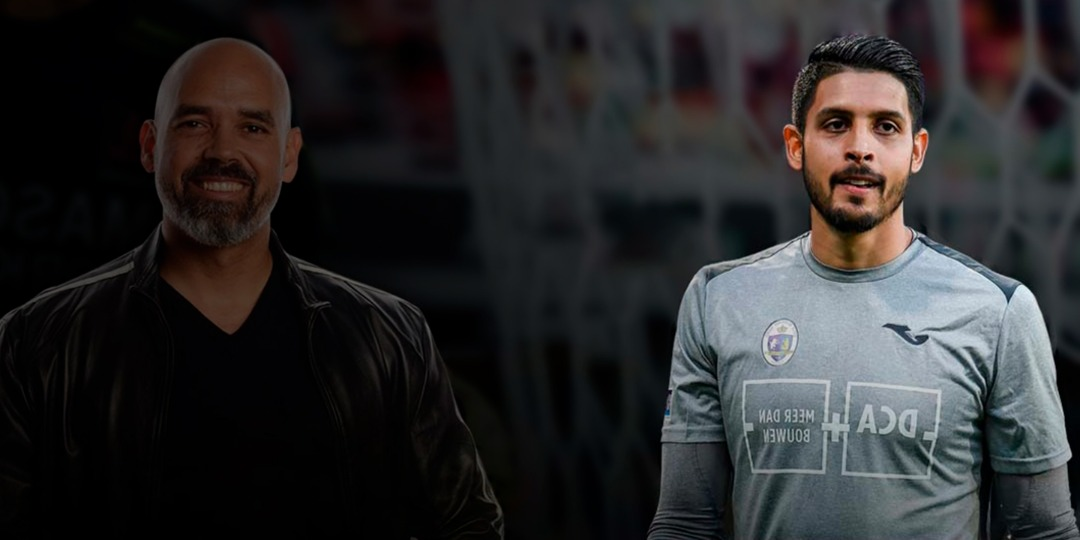
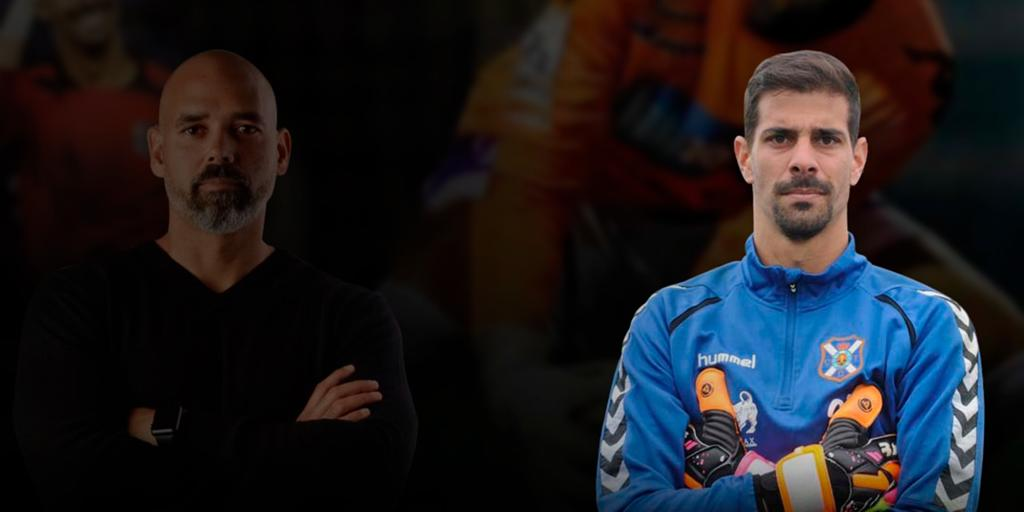
actualizado dani hernandez

diff --git a/index.html b/index.html
@@ -90,30 +90,38 @@
                 <div class="ld-fancy-heading text-uppercase">
                   <h2 class="my-0 lh-1 text-white font-weight-bold split-text-applied ca-initvalues-applied lqd-animations-done" data-ca-options="{&quot;triggerHandler&quot;:&quot;inview&quot;,&quot;animationTarget&quot;:&quot;.split-inner&quot;,&quot;duration&quot;:700,&quot;delay&quot;:100,&quot;easing&quot;:&quot;easeOutQuint&quot;,&quot;direction&quot;:&quot;forward&quot;,&quot;initValues&quot;:{&quot;translateX&quot;:70,&quot;scaleX&quot;:1.5,&quot;opacity&quot;:0},&quot;animations&quot;:{&quot;translateX&quot;:0,&quot;scaleX&quot;:1,&quot;opacity&quot;:1}}"
                     data-custom-animations="true" data-fittext="true" data-fittext-options="{&quot;compressor&quot;:1,&quot;maxFontSize&quot;:&quot;100&quot;,&quot;minFontSize&quot;:&quot;50&quot;}" data-split-options="{&quot;type&quot;:&quot;chars, words&quot;}"
-                    data-split-text="true" style="font-size: 63.6px;"><span class="ld-fh-txt"><div style="position:relative;display:inline-block;" class="lqd-words split-unit lqd-unit-animation-done"><span data-text="Juanpi" class="split-inner" style="transform: translateX(0px) scaleX(1); opacity: 1;"><span class="split-txt"><div style="position:relative;display:inline-block;" class="lqd-chars split-unit lqd-unit-animation-done"><span data-text="J" class="split-inner" style="transform: translateX(0px) scaleX(1); opacity: 1;"><span class="split-txt">R</span></span>
+                    data-split-text="true" style="font-size: 63.6px;"><span class="ld-fh-txt"><div style="position:relative;display:inline-block;" class="lqd-words split-unit lqd-unit-animation-done"><span data-text="Juanpi" class="split-inner" style="transform: translateX(0px) scaleX(1); opacity: 1;"><span class="split-txt"><div style="position:relative;display:inline-block;" class="lqd-chars split-unit lqd-unit-animation-done"><span data-text="J" class="split-inner" style="transform: translateX(0px) scaleX(1); opacity: 1;"><span class="split-txt">D</span></span>
                 </div>
                 <div style="position:relative;display:inline-block;" class="lqd-chars split-unit lqd-unit-animation-done"><span data-text="u" class="split-inner" style="transform: translateX(0px) scaleX(1); opacity: 1;"><span class="split-txt">a</span></span>
                 </div>
-                <div style="position:relative;display:inline-block;" class="lqd-chars split-unit lqd-unit-animation-done"><span data-text="a" class="split-inner" style="transform: translateX(0px) scaleX(1); opacity: 1;"><span class="split-txt">f</span></span>
+                <div style="position:relative;display:inline-block;" class="lqd-chars split-unit lqd-unit-animation-done"><span data-text="a" class="split-inner" style="transform: translateX(0px) scaleX(1); opacity: 1;"><span class="split-txt">n</span></span>
                 </div>
-                <div style="position:relative;display:inline-block;" class="lqd-chars split-unit lqd-unit-animation-done"><span data-text="n" class="split-inner" style="transform: translateX(0px) scaleX(1); opacity: 1;"><span class="split-txt">a</span></span>
+                <div style="position:relative;display:inline-block;" class="lqd-chars split-unit lqd-unit-animation-done"><span data-text="n" class="split-inner" style="transform: translateX(0px) scaleX(1); opacity: 1;"><span class="split-txt">i</span></span>
                 </div>
-                <div style="position:relative;display:inline-block;" class="lqd-chars split-unit lqd-unit-animation-done"><span data-text="p" class="split-inner" style="transform: translateX(0px) scaleX(1); opacity: 1;"><span class="split-txt">e</span></span>
+                <div style="position:relative;display:inline-block;" class="lqd-chars split-unit lqd-unit-animation-done"><span data-text="n" class="split-inner" style="transform: translateX(0px) scaleX(1); opacity: 1;"><span class="split-txt"></span></span>
                 </div>
-                <div style="position:relative;display:inline-block;" class="lqd-chars split-unit lqd-unit-animation-done"><span data-text="i" class="split-inner" style="transform: translateX(0px) scaleX(1); opacity: 1;"><span class="split-txt">l</span></span>
-                </div>
-                <div style="position:relative;display:inline-block;" class="lqd-chars split-unit lqd-unit-animation-done"><span data-text=" " class="split-inner" style="transform: translateX(0px) scaleX(1); opacity: 1;"><span class="split-txt"> </span></span>
+                <div style="position:relative;display:inline-block;" class="lqd-chars split-unit lqd-unit-animation-done"><span data-text="n" class="split-inner" style="transform: translateX(0px) scaleX(1); opacity: 1;"><span class="split-txt"></span></span>
                 </div>
                 </span>
                 </span>
               </div>
-              <div style="position:relative;display:inline-block;" class="lqd-words split-unit lqd-unit-animation-done"><span data-text="Añor" class="split-inner" style="transform: translateX(0px) scaleX(1); opacity: 1;"><span class="split-txt"><div style="position:relative;display:inline-block;" class="lqd-chars split-unit lqd-unit-animation-done"><span data-text="A" class="split-inner" style="transform: translateX(0px) scaleX(1); opacity: 1;"><span class="split-txt">R</span></span>
+              <div style="position:relative;display:inline-block;" class="lqd-words split-unit lqd-unit-animation-done"><span data-text="Añor" class="split-inner" style="transform: translateX(0px) scaleX(1); opacity: 1;"><span class="split-txt"><div style="position:relative;display:inline-block;" class="lqd-chars split-unit lqd-unit-animation-done"><span data-text="A" class="split-inner" style="transform: translateX(0px) scaleX(1); opacity: 1;"><span class="split-txt">H</span></span>
               </div>
-              <div style="position:relative;display:inline-block;" class="lqd-chars split-unit lqd-unit-animation-done"><span data-text="ñ" class="split-inner" style="transform: translateX(0px) scaleX(1); opacity: 1;"><span class="split-txt">o</span></span>
+              <div style="position:relative;display:inline-block;" class="lqd-chars split-unit lqd-unit-animation-done"><span data-text="ñ" class="split-inner" style="transform: translateX(0px) scaleX(1); opacity: 1;"><span class="split-txt">e</span></span>
               </div>
-              <div style="position:relative;display:inline-block;" class="lqd-chars split-unit lqd-unit-animation-done"><span data-text="o" class="split-inner" style="transform: translateX(0px) scaleX(1); opacity: 1;"><span class="split-txt">m</span></span>
+              <div style="position:relative;display:inline-block;" class="lqd-chars split-unit lqd-unit-animation-done"><span data-text="o" class="split-inner" style="transform: translateX(0px) scaleX(1); opacity: 1;"><span class="split-txt">r</span></span>
               </div>
-              <div style="position:relative;display:inline-block;" class="lqd-chars split-unit lqd-unit-animation-done"><span data-text="r" class="split-inner" style="transform: translateX(0px) scaleX(1); opacity: 1;"><span class="split-txt">o</span></span>
+              <div style="position:relative;display:inline-block;" class="lqd-chars split-unit lqd-unit-animation-done"><span data-text="r" class="split-inner" style="transform: translateX(0px) scaleX(1); opacity: 1;"><span class="split-txt">n</span></span>
+              </div>
+              <div style="position:relative;display:inline-block;" class="lqd-chars split-unit lqd-unit-animation-done"><span data-text="r" class="split-inner" style="transform: translateX(0px) scaleX(1); opacity: 1;"><span class="split-txt">á</span></span>
+              </div>
+              <div style="position:relative;display:inline-block;" class="lqd-chars split-unit lqd-unit-animation-done"><span data-text="r" class="split-inner" style="transform: translateX(0px) scaleX(1); opacity: 1;"><span class="split-txt">n</span></span>
+              </div>
+              <div style="position:relative;display:inline-block;" class="lqd-chars split-unit lqd-unit-animation-done"><span data-text="r" class="split-inner" style="transform: translateX(0px) scaleX(1); opacity: 1;"><span class="split-txt">d</span></span>
+              </div>
+              <div style="position:relative;display:inline-block;" class="lqd-chars split-unit lqd-unit-animation-done"><span data-text="r" class="split-inner" style="transform: translateX(0px) scaleX(1); opacity: 1;"><span class="split-txt">e</span></span>
+              </div>
+              <div style="position:relative;display:inline-block;" class="lqd-chars split-unit lqd-unit-animation-done"><span data-text="r" class="split-inner" style="transform: translateX(0px) scaleX(1); opacity: 1;"><span class="split-txt">z</span></span>
               </div>
               </span>
               </span>
@@ -126,11 +134,11 @@
           <div class="ld-fancy-heading text-uppercase">
             <h2 class="mt-0 mb-3 lh-1 text-primary font-weight-bold split-text-applied ca-initvalues-applied lqd-animations-done" data-ca-options="{&quot;triggerHandler&quot;:&quot;inview&quot;,&quot;animationTarget&quot;:&quot;.split-inner&quot;,&quot;duration&quot;:700,&quot;startDelay&quot;:&quot;950&quot;,&quot;delay&quot;:100,&quot;easing&quot;:&quot;easeOutQuint&quot;,&quot;direction&quot;:&quot;forward&quot;,&quot;initValues&quot;:{&quot;scaleX&quot;:1.5,&quot;scaleY&quot;:1.5,&quot;opacity&quot;:0},&quot;animations&quot;:{&quot;scaleX&quot;:1,&quot;scaleY&quot;:1,&quot;opacity&quot;:1}}"
               data-custom-animations="true" data-fittext="true" data-fittext-options="{&quot;compressor&quot;:1,&quot;maxFontSize&quot;:&quot;100&quot;,&quot;minFontSize&quot;:&quot;50&quot;}" data-split-options="{&quot;type&quot;:&quot;chars, words&quot;}"
-              data-split-text="true" style="font-size: 63.6px;"><span class="ld-fh-txt"><div style="position:relative;display:inline-block;" class="lqd-words split-unit lqd-unit-animation-done"><span data-text="Mie&nbsp;-" class="split-inner" style="transform: scaleX(1) scaleY(1); opacity: 1;"><span class="split-txt"><div style="position:relative;display:inline-block;" class="lqd-chars split-unit lqd-unit-animation-done"><span data-text="M" class="split-inner" style="transform: scaleX(1) scaleY(1); opacity: 1;"><span class="split-txt">M</span></span>
+              data-split-text="true" style="font-size: 63.6px;"><span class="ld-fh-txt"><div style="position:relative;display:inline-block;" class="lqd-words split-unit lqd-unit-animation-done"><span data-text="Mie&nbsp;-" class="split-inner" style="transform: scaleX(1) scaleY(1); opacity: 1;"><span class="split-txt"><div style="position:relative;display:inline-block;" class="lqd-chars split-unit lqd-unit-animation-done"><span data-text="M" class="split-inner" style="transform: scaleX(1) scaleY(1); opacity: 1;"><span class="split-txt">S</span></span>
           </div>
-          <div style="position:relative;display:inline-block;" class="lqd-chars split-unit lqd-unit-animation-done"><span data-text="i" class="split-inner" style="transform: scaleX(1) scaleY(1); opacity: 1;"><span class="split-txt">i</span></span>
+          <div style="position:relative;display:inline-block;" class="lqd-chars split-unit lqd-unit-animation-done"><span data-text="i" class="split-inner" style="transform: scaleX(1) scaleY(1); opacity: 1;"><span class="split-txt">a</span></span>
           </div>
-          <div style="position:relative;display:inline-block;" class="lqd-chars split-unit lqd-unit-animation-done"><span data-text="e" class="split-inner" style="transform: scaleX(1) scaleY(1); opacity: 1;"><span class="split-txt">e</span></span>
+          <div style="position:relative;display:inline-block;" class="lqd-chars split-unit lqd-unit-animation-done"><span data-text="e" class="split-inner" style="transform: scaleX(1) scaleY(1); opacity: 1;"><span class="split-txt">b</span></span>
           </div>
           <div style="position:relative;display:inline-block;" class="lqd-chars split-unit lqd-unit-animation-done"><span data-text="&nbsp;" class="split-inner" style="transform: scaleX(1) scaleY(1); opacity: 1;"><span class="split-txt">&nbsp;</span></span>
           </div>
@@ -139,7 +147,7 @@
           </span>
           </span>
         </div>
-        <div style="position:relative;display:inline-block;" class="lqd-words split-unit lqd-unit-animation-done"><span data-text="3&nbsp;Junio" class="split-inner" style="transform: scaleX(1) scaleY(1); opacity: 1;"><span class="split-txt"><div style="position:relative;display:inline-block;" class="lqd-chars split-unit lqd-unit-animation-done"><span data-text="3" class="split-inner" style="transform: scaleX(1) scaleY(1); opacity: 1;"><span class="split-txt">10</span></span>
+        <div style="position:relative;display:inline-block;" class="lqd-words split-unit lqd-unit-animation-done"><span data-text="3&nbsp;Junio" class="split-inner" style="transform: scaleX(1) scaleY(1); opacity: 1;"><span class="split-txt"><div style="position:relative;display:inline-block;" class="lqd-chars split-unit lqd-unit-animation-done"><span data-text="3" class="split-inner" style="transform: scaleX(1) scaleY(1); opacity: 1;"><span class="split-txt">13</span></span>
         </div>
         <div style="position:relative;display:inline-block;" class="lqd-chars split-unit lqd-unit-animation-done"><span data-text="&nbsp;" class="split-inner" style="transform: scaleX(1) scaleY(1); opacity: 1;"><span class="split-txt">&nbsp;</span></span>
         </div>
@@ -362,7 +370,7 @@
     <!-- /.container -->
   </section>
 
-  <section class="vc_row pt-150 pb-150 bg-cover bg-center" data-parallax="true" data-parallax-options="{&quot;parallaxBG&quot;: true}" style="background-image: url(./assets/demo/bg/romo-estadio.jpeg);">
+  <section class="vc_row pt-150 pb-150 bg-cover bg-center" data-parallax="true" data-parallax-options="{&quot;parallaxBG&quot;: true}" style="background-image: url(./assets/demo/bg/dani-estadio.jpeg);">
     <div class="container">
       <div class="row">
         <div class="lqd-column col-md-8 col-md-offset-2 text-center">
@@ -374,7 +382,7 @@
 
           <div class="ld-fancy-heading mask-text text-uppercase">
             <p class="text-white ltr-sp-5 lh-1" data-ca-options="{&quot;triggerHandler&quot;:&quot;inview&quot;,&quot;animationTarget&quot;:&quot;.split-inner&quot;,&quot;duration&quot;:&quot;1200&quot;,&quot;startDelay&quot;:&quot;400&quot;,&quot;delay&quot;:&quot;200&quot;,&quot;easing&quot;:&quot;easeInOutQuint&quot;,&quot;direction&quot;:&quot;forward&quot;,&quot;initValues&quot;:{&quot;translateY&quot;:55},&quot;animations&quot;:{&quot;translateY&quot;:0}}"
-              data-custom-animations="true" data-fittext="true" data-fittext-options="{&quot;compressor&quot;:0.65,&quot;maxFontSize&quot;: 48,&quot;minFontSize&quot;: 36}" data-split-options="{&quot;type&quot;:&quot;words&quot;}" data-split-text="true"><span class="ld-fh-txt">Rafael Romo</span></p>
+              data-custom-animations="true" data-fittext="true" data-fittext-options="{&quot;compressor&quot;:0.65,&quot;maxFontSize&quot;: 48,&quot;minFontSize&quot;: 36}" data-split-options="{&quot;type&quot;:&quot;words&quot;}" data-split-text="true"><span class="ld-fh-txt">Dani Hernández</span></p>
           </div>
           <!-- /.ld-fancy-heading -->
 
@@ -389,7 +397,7 @@
 
         <div class="lqd-column col-md-12 text-center">
           <!-- link youtube -->
-          <a href="https://youtu.be/8D9vc19G0lg" class="btn btn-naked fresco btn-icon-block btn-icon-top btn-icon-xlg btn-icon-circle btn-icon-bordered">
+          <a href="" class="btn btn-naked fresco btn-icon-block btn-icon-top btn-icon-xlg btn-icon-circle btn-icon-bordered">
             <span>
 									<span class="btn-icon font-size-22">
 										<i class="fa fa-play"></i>
@@ -704,6 +712,21 @@
                     <div class="fancy-box-info">
                       <h3>Daniel Dhers</h3>
                       <span class="trainer">Ciclista Profesional de BMX</span></div>
+                    <!-- /.fancy-box-info -->
+                  </div>
+                  <!-- /.fancy-box-contents -->
+                </div>
+                <!-- /.fancy-box -->
+              </div>
+
+              <div class="lqd-column carousel-item col-md-3 col-sm-6">
+                <div class="fancy-box content-box-heading-sm fancy-box-classes">
+                  <figure class="fancy-box-image"><img alt="BootCamp Circuitss" src="./assets/demo/misc/romo.jpeg" /></figure>
+
+                  <div class="fancy-box-contents">
+                    <div class="fancy-box-info">
+                      <h3>Rafael Romo</h3>
+                      <span class="trainer">Futbolista Profesional</span></div>
                     <!-- /.fancy-box-info -->
                   </div>
                   <!-- /.fancy-box-contents -->

diff --git a/gracias.html b/gracias.html
@@ -416,6 +416,21 @@
 																					<!-- /.fancy-box -->
 																				</div>
 
+																				<div class="lqd-column carousel-item col-md-3 col-sm-6">
+																					<div class="fancy-box content-box-heading-sm fancy-box-classes">
+																						<figure class="fancy-box-image"><img alt="BootCamp Circuitss" src="./assets/demo/misc/romo.jpeg" /></figure>
+													
+																						<div class="fancy-box-contents">
+																							<div class="fancy-box-info">
+																								<h3>Rafael Romo</h3>
+																								<span class="trainer">Futbolista Profesional</span></div>
+																							<!-- /.fancy-box-info -->
+																						</div>
+																						<!-- /.fancy-box-contents -->
+																					</div>
+																					<!-- /.fancy-box -->
+																				</div>
+
 								</div><!-- /.carousel-items -->
 
 							</div><!-- /.carousel-container -->
